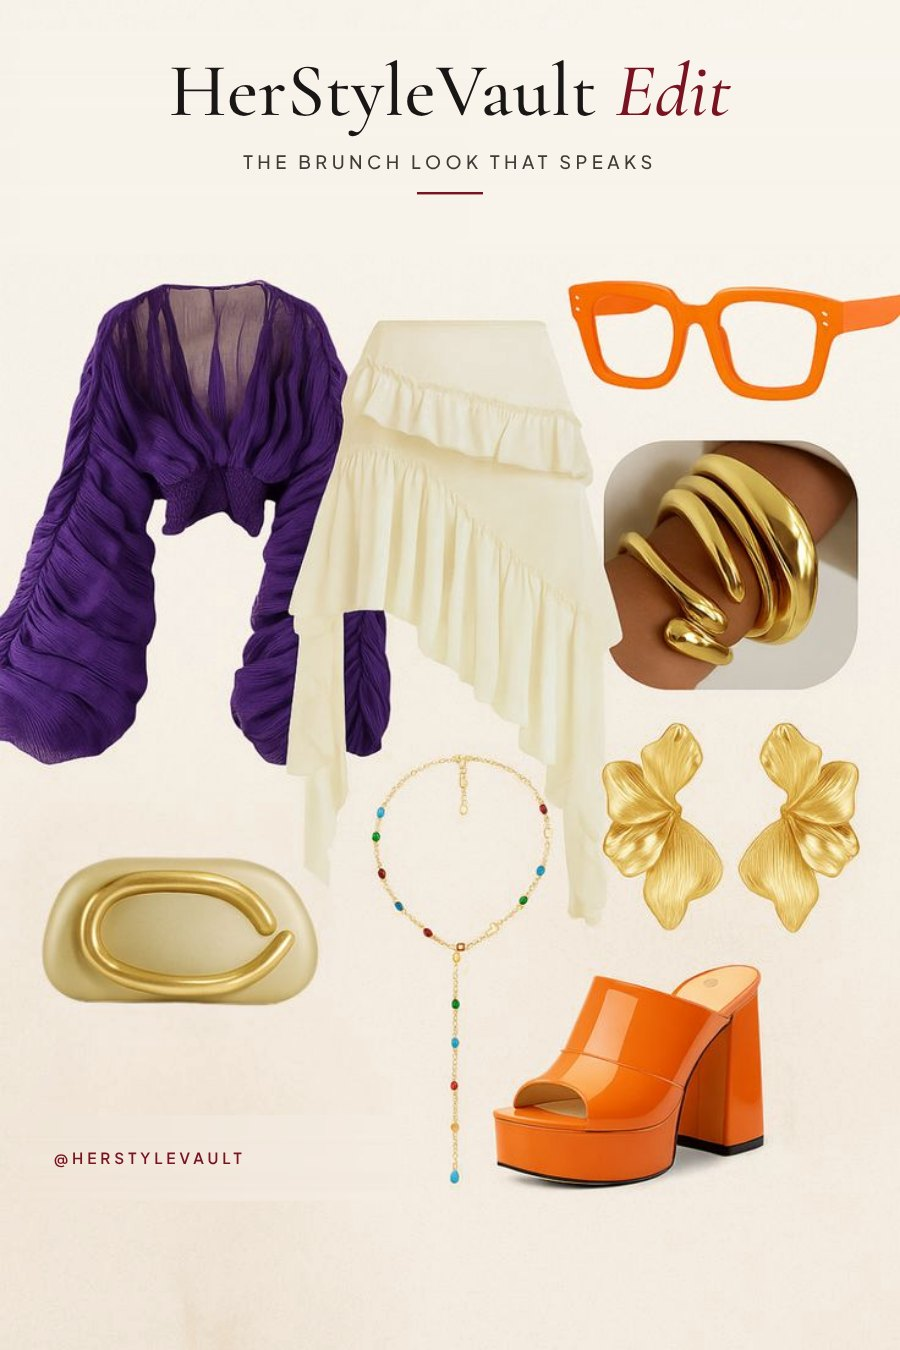
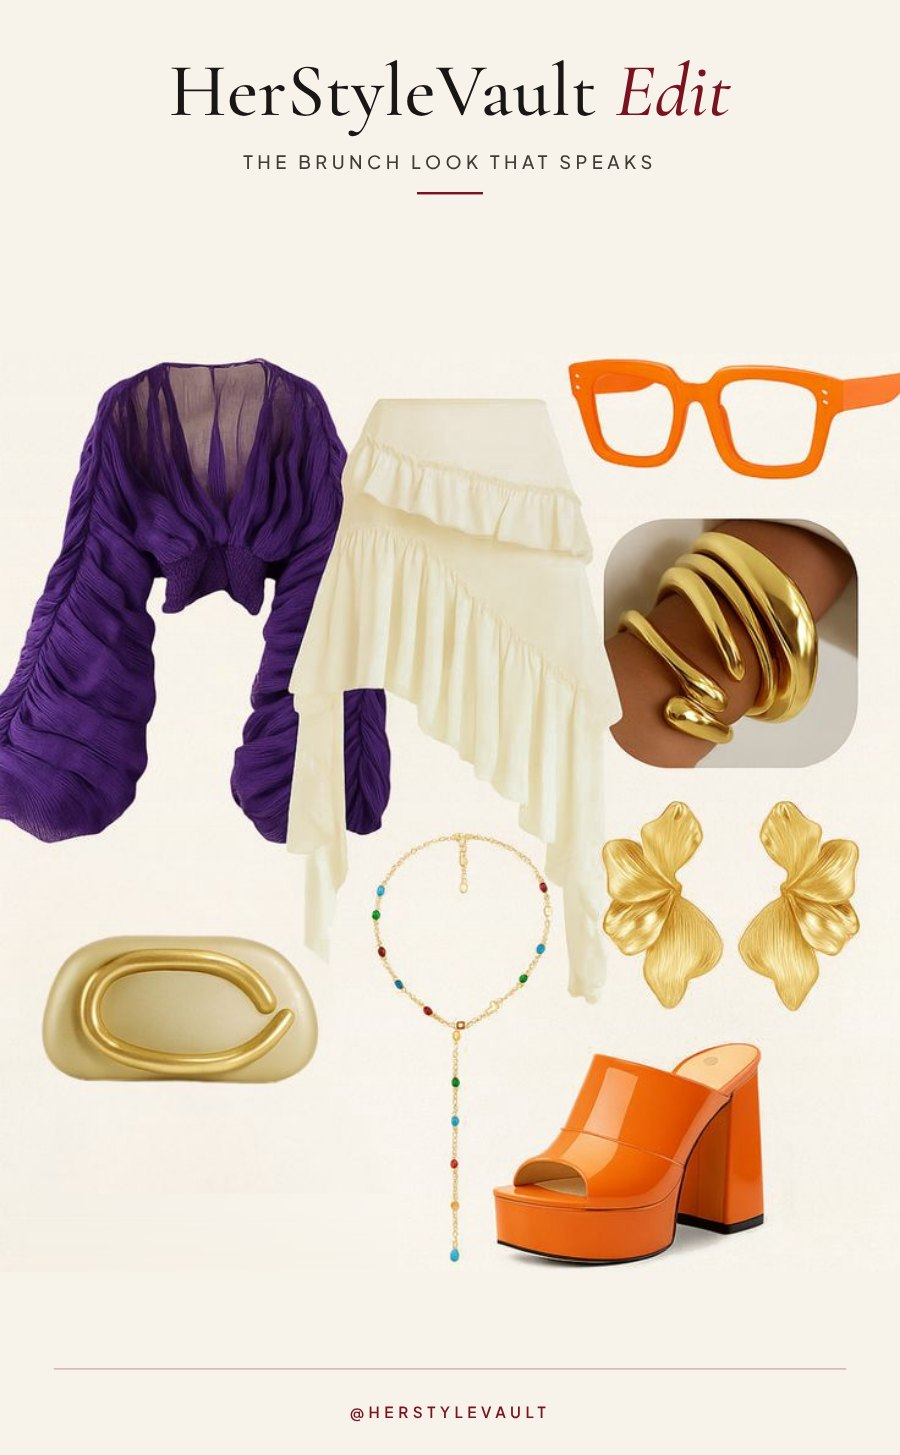
Lookbook boards: one consistent layout (header, centered looks, footer) with a seamless cream background
Claude-Session: https://claude.ai/code/session_01FUdN8BrrqRcBgv91ujUewX

diff --git a/theme.css b/theme.css
@@ -697,7 +697,7 @@ a.vd-opt:hover,a.vd-opt:focus-visible{border-color:var(--accent);}
 
 /* lookbook: 2 boards across, 2:3 pictures, tap to enlarge */
 .look-grid.look-two{grid-template-columns:repeat(2,minmax(0,1fr)); max-width:820px; margin:0 auto; gap:1.6rem 1.4rem;}
-.look-two .look-frame{aspect-ratio:2/3; padding:0; cursor:zoom-in; width:100%; border:1px solid var(--line); background:var(--bg);}
+.look-two .look-frame{aspect-ratio:736/1190; padding:0; cursor:zoom-in; width:100%; border:1px solid var(--line); background:var(--bg);}
 .look-two .look-frame::before{display:none;}
 .look-two .look-frame img{transition:transform .35s ease;}
 .look-two .look-frame:hover img,.look-two .look-frame:focus-visible img{transform:scale(1.025);}
